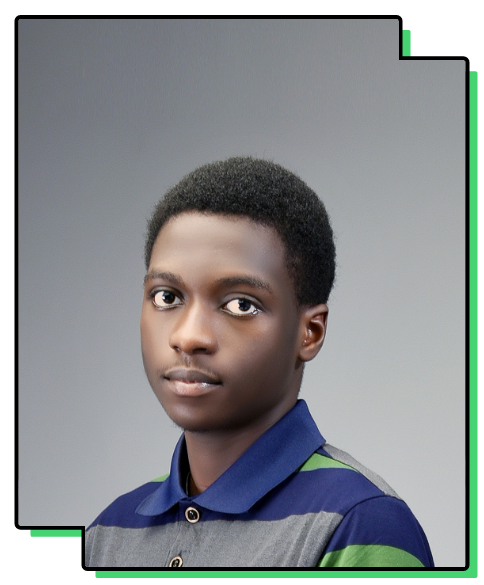
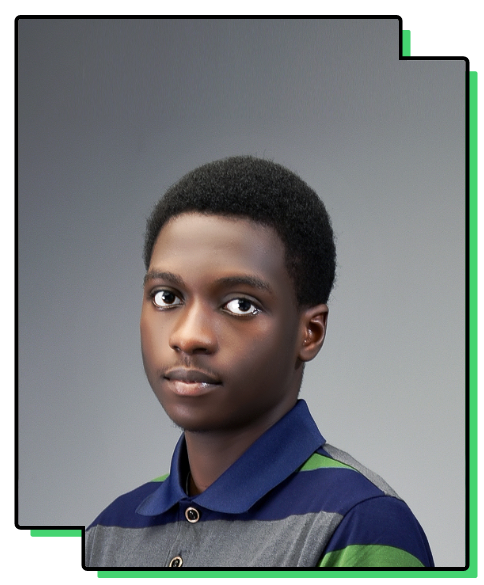
better images and meta tag

diff --git a/src/App.jsx b/src/App.jsx
@@ -24,8 +24,8 @@ function App() {
 
 
       <meta name="twitter:card" content="summary_large_image" />
-      <meta property="twitter:domain" content="nsikandavid.netlify.app" />
-      <meta property="twitter:url" content="https://nsikandavid.netlify.app" />
+      <meta property="twitter:domain" content="nsikandavid.dev" />
+      <meta property="twitter:url" content="https://nsikandavid.dev" />
       <meta name="twitter:title" content="Nsikan-David | Frontend Web Developer" />
       <meta name="twitter:description" content="Emmanuel Nsikan-david | Frontend Web Developer & UI Designer " />
       <meta name="twitter:image" content={og} />
